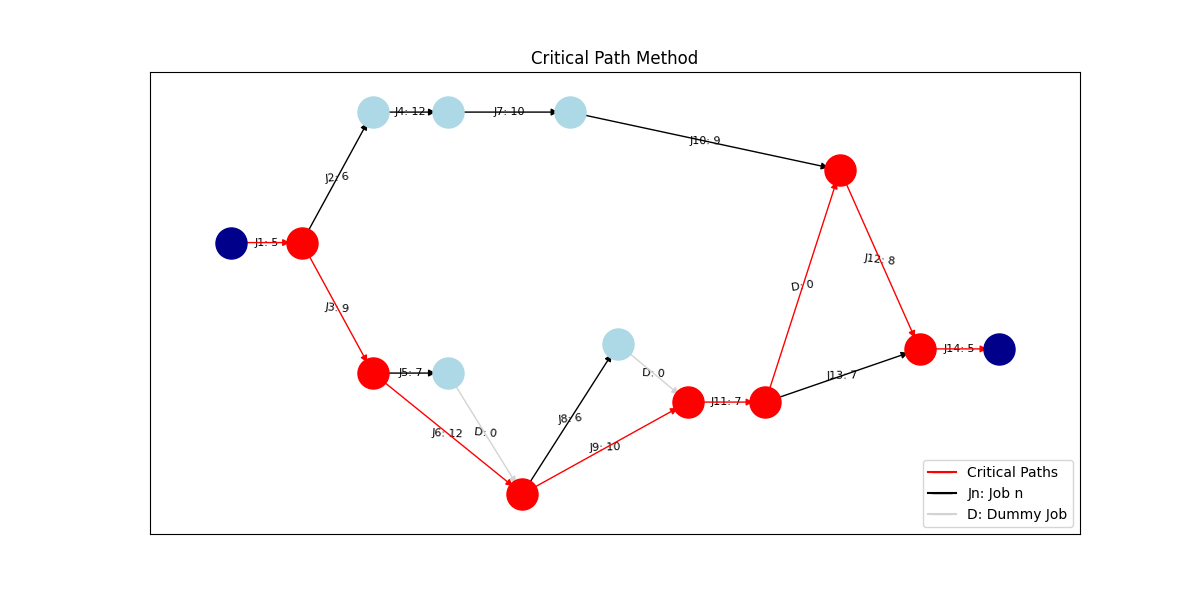
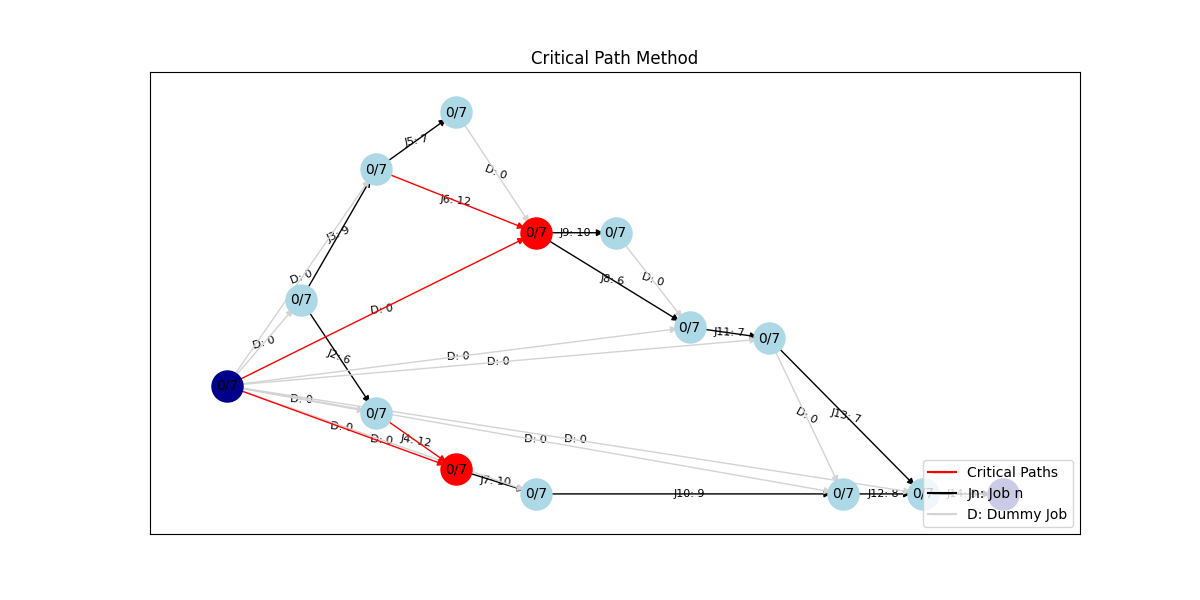
not working well

diff --git a/CPM/CPM.py b/CPM/CPM.py
@@ -53,9 +53,9 @@ class Network:
         self.predecessors = defaultdict(list)
         self.successors = defaultdict(list)
         for job in self.jobs:
-            self.predecessors[job] += [jobs[i] for i in job.predecessors]
+            self.predecessors[job.id] += [jobs[str(i)] for i in job.predecessors]
             for predecessor_id in job.predecessors:
-                self.successors[jobs[predecessor_id]].append(job)
+                self.successors[str(predecessor_id)].append(job)
         self.sources = []
         self.sinks = []
         self.sort()
@@ -78,8 +78,8 @@ def topological_sort(jobs, successors) -> tuple:
 
     # Calculate in-degree for each job
     for job in jobs:
-        for successor in successors[job]:
-            in_degree[successor] += 1
+        for successor in successors[job.id]:
+            in_degree[successor.id] += 1
 
     # Find jobs with no incoming edges (in-degree = 0)
     sources = [job for job in jobs if job not in in_degree or in_degree[job] == 0]
@@ -92,13 +92,13 @@ def topological_sort(jobs, successors) -> tuple:
         sorted_order.append(job)
 
         # Decrement the in-degree of each successor and add to sources if in-degree becomes 0
-        for successor in successors[job]:
-            in_degree[successor] -= 1
-            if in_degree[successor] == 0:
+        for successor in successors[job.id]:
+            in_degree[successor.id] -= 1
+            if in_degree[successor.id] == 0:
                 sources.append(successor)
 
         # Check if the job is a sink (no outgoing edges)
-        if job not in successors or len(successors[job]) == 0:
+        if job not in successors or len(successors[job.id]) == 0:
             sinks.append(job)
 
     return sources_to_return, sinks, sorted_order
@@ -112,16 +112,16 @@ def calculate_earliest_times(network) -> tuple:
 
     # Calculate earliest start and finish times
     for job in network.sources:
-        earliest_start_time[job] = 0  # Initialize earliest start time to 0
+        earliest_start_time[job.id] = 0  # Initialize earliest start time to 0
 
     for job in jobs:
-        if job not in predecessors or len(predecessors[job]) == 0:
+        if job not in predecessors or len(predecessors[job.id]) == 0:
             # Job has no dependencies, set earliest finish time to its duration
-            earliest_finish_time[job] = job.duration
+            earliest_finish_time[job.id] = job.duration
         else:
             # Calculate earliest finish time as the maximum of earliest finish times of dependent jobs
-            earliest_start_time[job] = max(earliest_finish_time[predecessor] for predecessor in predecessors[job])
-            earliest_finish_time[job] = earliest_start_time[job] + job.duration
+            earliest_start_time[job.id] = max(earliest_finish_time[predecessor.id] for predecessor in predecessors[job.id])
+            earliest_finish_time[job.id] = earliest_start_time[job.id] + job.duration
 
     return earliest_start_time, earliest_finish_time
 
@@ -137,8 +137,8 @@ def calculate_latest_times(network, earliest_finish_time) -> tuple:
 
     # Calculate latest start and finish times
     for job in network.sinks:
-        latest_finish_time[job] = project_duration  # Initialize latest finish time to project duration
-        latest_start_time[job] = project_duration - job.duration
+        latest_finish_time[job.id] = project_duration  # Initialize latest finish time to project duration
+        latest_start_time[job.id] = project_duration - job.duration
 
     jobs.reverse()
     for job in jobs:
@@ -146,16 +146,16 @@ def calculate_latest_times(network, earliest_finish_time) -> tuple:
         if job in network.sinks:
             continue
         else:
-            latest_finish_time[job] = min(latest_start_time[successor] for successor in successors[job])
-            latest_start_time[job] = latest_finish_time[job] - job.duration
+            latest_finish_time[job.id] = min(latest_start_time[successor.id] for successor in successors[job.id])
+            latest_start_time[job.id] = latest_finish_time[job.id] - job.duration
     
     return dict(reversed(list(latest_start_time.items()))),  dict(reversed(list(latest_finish_time.items())))
 
 
-def calculate_slacks(earliest_start_time, latest_start_time) -> dict:
+def calculate_slacks(jobs, earliest_start_time, latest_start_time) -> dict:
     slacks = {}
-    for job in earliest_start_time:
-        slack_time = latest_start_time[job] - earliest_start_time[job]
+    for job in jobs:
+        slack_time = latest_start_time[job.id] - earliest_start_time[job.id]
         slacks[job] = slack_time
     return slacks
 
@@ -168,7 +168,7 @@ def calculate_critical_path(slacks) -> list:
 def CPM(network) -> tuple:
     earliest_start_time, earliest_finish_time = calculate_earliest_times(network)
     latest_start_time, latest_finish_time = calculate_latest_times(network, earliest_finish_time)
-    slacks = calculate_slacks(earliest_start_time, latest_start_time)
+    slacks = calculate_slacks(network.jobs, earliest_start_time, latest_start_time)
     critical_path = calculate_critical_path(slacks)
     makespan = max(earliest_finish_time.values())
     return earliest_start_time, earliest_finish_time, latest_start_time, latest_finish_time, slacks, critical_path, makespan

diff --git a/CPM/visualize.py b/CPM/visualize.py
@@ -106,7 +106,7 @@ class States(object):
     def find_shared_predecessor(states, jobs) -> dict:
         incoming_dict = defaultdict(list)
         for state in states:
-            predecessor_tuple = tuple(sorted(jobs[int(state.id)].predecessors))
+            predecessor_tuple = tuple(sorted(jobs[state.id].predecessors))
             incoming_dict[predecessor_tuple].append(state)
 
         shared_predecessor = [states for predecessor, states in incoming_dict.items() if len(states) > 1]
@@ -126,26 +126,28 @@ class States(object):
 
 
 DEAFULT_PATH = 'SchedulingTheory/CPM/output'
-def visualize_CPM(jobs, critical_path, outputpath=DEAFULT_PATH) -> None:
+def visualize_CPM(jobs, CPM_results, outputpath=DEAFULT_PATH) -> None:
     network = Network(jobs)
+    earliest_start_time, earliest_finish_time, latest_start_time, latest_finish_time, slacks, critical_path, makespan = CPM_results
+
 
     # Create a dictionary to store all states
-    states = {0: State(0, is_critical=True)}
+    states = {'0': State(0, is_critical=True)}
 
     # Add jobs with no predecessors starting from "state 0"
     for job in network.sources:
-        states[0].add_outgoing(job)
+        states['0'].add_outgoing(job)
 
     # Add the rest of the jobs
     for job in jobs.values():
         is_critical = False
         if job in critical_path:
             is_critical = True
-        states[int(job.id)] = State(job.id, is_critical)
-        states[int(job.id)].add_incoming(job)
+        states[job.id] = State(job.id, is_critical)
+        states[job.id].add_incoming(job)
     for job in jobs.values():
         for predecessor_id in job.predecessors:
-            states[predecessor_id].add_outgoing(job)
+            states[str(predecessor_id)].add_outgoing(job)
 
     st = States(states, jobs, critical_path)
     states = st.states
@@ -155,13 +157,16 @@ def visualize_CPM(jobs, critical_path, outputpath=DEAFULT_PATH) -> None:
 
     graph.graph['graph'] = {'rankdir': 'LR'}
 
+    for state in states.values():
+        graph.add_node(state, label=f'{earliest_start_time[job.id]}/{latest_start_time[job.id]}')
+
     # Add edges based on the states
     for state in states.values():
         for outgoing in state.outgoing:
             if not outgoing.is_dummy:
-                graph.add_edge(state, states[int(outgoing.id)], label=f"J{str(outgoing)}: {outgoing.duration}", is_critical=(outgoing in critical_path), is_dummy=False)
+                graph.add_edge(state, states[outgoing.id], label=f"J{str(outgoing)}: {outgoing.duration}", is_critical=(outgoing in critical_path), is_dummy=False)
             else:
-                graph.add_edge(state, states[int(outgoing.id)], label='D: 0', is_critical=(state.is_critical and states[int(outgoing.id)].is_critical), is_dummy=True)
+                graph.add_edge(state, states[outgoing.id], label='D: 0', is_critical=(state.is_critical and states[outgoing.id].is_critical), is_dummy=True)
 
     # Draw the graph
     plt.figure(figsize=(12, 6))

diff --git a/CPM/main.py b/CPM/main.py
@@ -17,14 +17,14 @@ def main():
         jobs_dict = json.load(f)
 
     # Convert the dictionary back to Job objects
-    jobs = {int(id): Job(**job_data) for id, job_data in jobs_dict.items()}
+    jobs = {id: Job(**job_data) for id, job_data in jobs_dict.items()}
 
     # Create the network and add jobs and dependencies
     network = Network(jobs)
 
     # Run the CPM algorithm
-    CPM_result = CPM(network)
-    earliest_start_time, earliest_finish_time, latest_start_time, latest_finish_time, slacks, critical_path, makespan = CPM_result
+    CPM_results = CPM(network)
+    earliest_start_time, earliest_finish_time, latest_start_time, latest_finish_time, slacks, critical_path, makespan = CPM_results
     # Print the results
     print("Earliest Start Time:", earliest_start_time)
     print("Earliest Finish Time:", earliest_finish_time)
@@ -34,7 +34,7 @@ def main():
     print("Critical Path:", critical_path)
     print("Makespan: ", makespan)
 
-    visualize_CPM(jobs, critical_path, outputpath)
+    visualize_CPM(jobs, CPM_results, outputpath)
 
 if __name__ == '__main__':
     main()
